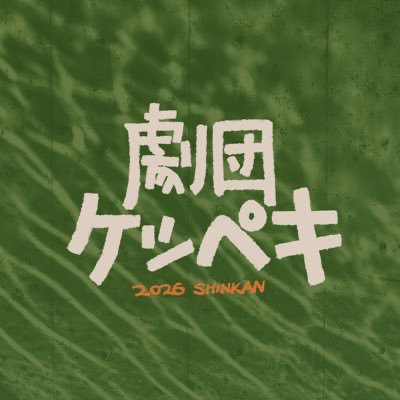
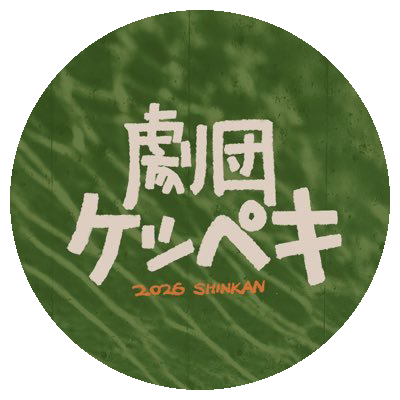
ファビコン設定再び

Changed region(s): [[0.0, 0.0, 1.0, 1.0]]

diff --git a/app/layout.tsx b/app/layout.tsx
@@ -18,8 +18,11 @@ export const metadata: Metadata = {
     template: "%s | 劇団ケッペキ",
   },
   icons: {
-    icon: "/icon.png",
-    shortcut: "/icon.png",
+    icon: [
+      { url: "/icon.png", type: "image/png", sizes: "400x400" },
+      { url: "/favicon.ico", sizes: "any" },
+    ],
+    shortcut: "/favicon.ico",
     apple: "/apple-icon.png",
   },
   description:
